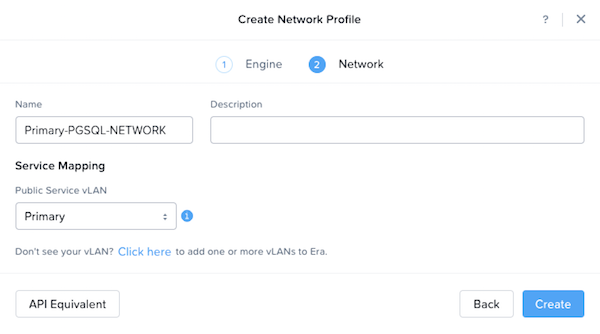
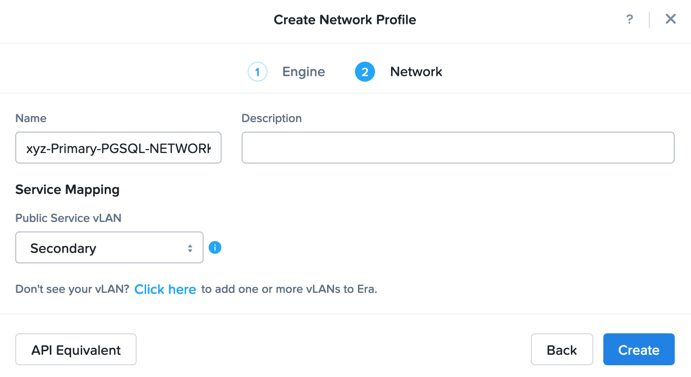
Final Updates - Initial Release

diff --git a/era_provision_postgresdb/era_provision_postgresdb.rst b/era_provision_postgresdb/era_provision_postgresdb.rst
@@ -1,20 +1,11 @@
-.. _era_provision_postgresdb:
+.. _provision_postgresdb:
 
 --------------------------
-Era: Provision Postgres DB
+Provision Postgres DB
 --------------------------
 
 Overview
 ++++++++
-
-.. note::
-
-  Estimated time to complete: **30 MINUTES**
-
-This lab will show you how to provision, connect, and view a Postgres Database.
-
-Provisioning a PostgreSQL Database
-++++++++++++++++++++++++++++++++++
 
 The initial release of Era supports the following Operating Systems and Database Servers:
 
@@ -28,13 +19,43 @@ The initial release of Era supports the following Operating Systems and Database
 
 Era can be used to provision database servers and databases on the registered Nutanix cluster, or you can register an existing source database running on the cluster. In this lab, you will provision a new PostgreSQL database server and database.
 
-Era makes it even simpler to provision a simple PostgreSQL database by providing sample profiles for **Software**, **Compute**, and **Database Parameters**. You will explore each of these profiles to understand how they are configured.
+.. note::
 
-#. Select the **Era > Getting Started** drop down menu and click **Profiles**.
+  Estimated time to complete: **30 MINUTES**
+
+This lab will show you how to provision, connect, and view a Postgres Database.
+
+Exploring Era Resources
++++++++++++++++++++++++
+
+Era is distributed as a virtual appliance that can be installed on either AHV or ESXi. For the purposes of conserving memory resources, a shared Era server has already been deployed on your cluster.
+
+.. note::
+
+   If you're interested, instructions for the brief installation of the Era appliance can be found `here <https://portal.nutanix.com/#/page/docs/details?targetId=Nutanix-Era-User-Guide-v12:era-era-installing-on-ahv-t.html>`_.
+
+#. In **Prism Central > VMs > List**, identify the IP address assigned to the **EraServer-\*** VM using the **IP Addresses** column.
+
+#. Open \https://*ERA-VM-IP:8443*/ in a new browser tab.
+
+#. Login using the following credentials:
+
+   - **Username** - admin
+   - **Password** - nutanix/4u
+
+#. From the **Dashboard** dropdown, select **Administration**.
+
+#. Under **Cluster Details**, note that Era has already been configured for your assigned cluster.
+
+   .. figure:: images/6.png
+
+#. Select **Era Resources** from the left-hand menu.
+
+#. In **Era**, select **Profiles**from the dropdown menu and **Software**  from the lefthand menu.
 
    .. figure:: images/3g.png
 
-#. Select **Software** and note there are included profiles for **PostgreSQL 10.4** and **MariaDB 10.3** shipped with Era.
+#. Note there are included profiles for **PostgreSQL 10.4** and **MariaDB 10.3** shipped with Era.
 
    Additional PostgreSQL, MariaDB, SQL Server, and Oracle profiles can be created by registering database server VMs with Era.
 
@@ -42,7 +63,7 @@ Era makes it even simpler to provision a simple PostgreSQL database by providing
 
 #. Click **+ Create** and fill out the following fields:
 
-   - **Name** - Lab
+   - **Name** - *Initials*\ -Lab
    - **Description** - Lab Compute Profile
    - **vCPUs** - 1
    - **Cores per CPU** - 2
@@ -55,9 +76,10 @@ Era makes it even simpler to provision a simple PostgreSQL database by providing
 #. Click **Network**.
 
 #. Click **+ Create** and fill out the following fields:
-   - Select PostgreSQL for the database engine
-   - **Name** - Primary-PGSQL-NETWORK
-   - **Public Service vLAN** - Primary
+
+   - **Engine** - PostgreSQL
+   - **Name** - *Initials*\ -Primary-PGSQL-NETWORK
+   - **Public Service VLAN** - Secondary
 
    .. figure:: images/3f3.png
 
@@ -65,26 +87,25 @@ Era makes it even simpler to provision a simple PostgreSQL database by providing
 
 #. Select **Database Parameters > DEFAULT_POSTGRES_PARAMS** and note the default parameters for a PostgreSQL database provisioned by Era.
 
-#. Select the **Era > Profiles** drop down menu and click **Getting Started**.
+Provisioning a PostgreSQL Database
+++++++++++++++++++++++++++++++++++
 
-#. On the **Getting Started** page, click the **PostgreSQL** button under **Provision a Database**.
+You've completed all the one time operations required to be able to provision any number of DB Server VMs. Follow the steps below to provision a database of a fresh database server, with best practices automatically applied by Era.
 
-   .. figure:: images/4b2.png
+#. In **Era**, select **Databases** from the dropdown menu and **Sources** from the lefthand menu.
 
-#. Click **Provision a Database**.
+#. Click **+ Provision > Single Node Database**.
 
-   .. figure:: images/4c.png
+#. In the **Provision a Database** wizard, fill out the following fields to configure the Database Server:
 
-#. Select the **PostgreSQL** engine and click **Next**.
-
-#. Fill out the following **Database Server** fields:
-
+   - **Engine** - PostgresSQL
    - **Database Server** - Select **Create New Server**
-   - **Database Server Name** - *Initials*-DBServer
-   - **Compute Profile** - Lab
-   - **Network Profile** - DEFAULT_POSTGRES_NETWORK
+   - **Database Server Name** - *Initials*\ -PostgresSQL
+   - **Description** - (Optional)
    - **Software Profile** - POSTGRES_10.4_OOB
-   - **Description** - (Optional) Description
+   - **Compute Profile** - *Initials*\ -Lab
+   - **Network Profile** - *Initials*\ -Primary-PGSQL-NETWORK
+   - **Database Time Zone** - America/Los_Angeles
    - **SSH Public Key for Node Access** - Select **Text**
 
    .. code-block:: text
@@ -118,7 +139,7 @@ Era makes it even simpler to provision a simple PostgreSQL database by providing
 
 #. Fill out the following **Time Machine** fields:
 
-   - **Name** - *Initials*\_LabDB_TM
+   - **Name** - *Initials*\_LabDB_tm
    - **Description** - (Optional) Description
    - **SLA** - DEFAULT_OOB_GOLD_SLA
    - **Schedule** - Default
@@ -127,7 +148,7 @@ Era makes it even simpler to provision a simple PostgreSQL database by providing
 
 #. Click **Provision**.
 
-#. Click **Operations** in the upper right-hand corner to view the provisioning progress. Provisioning should take approximately 5 minutes.
+#. Select **Operations** from the dropdown menu to monitor the provisioning. This process should take approximately 5 minutes.
 
    .. note::
 
@@ -146,7 +167,7 @@ Connecting to the Database
 
 Now that Era has successfully provisioned a database instance, you will connect to the instance and verify the database was created.
 
-#. Select **Era > Databases** from the drop down menu.
+#. In **Era**, select **Databases** from the drop down menu.
 
 #. Under **Sources**, click the name of your database.
 
@@ -156,7 +177,7 @@ Now that Era has successfully provisioned a database instance, you will connect 
 
    .. figure:: images/5b.png
 
-#. Using *Initials*\ **-Windows-ToolsVM**, open **pgAdmin**.
+#. Using *Initials*\ **-WinToolsVM**, open **pgAdmin**.
 
    .. note::
 

diff --git a/labsetup/labsetup.rst b/labsetup/labsetup.rst
@@ -1,0 +1,95 @@
+.. _lab_setup:
+
+----------------------
+Postgres Lab Setup
+----------------------
+
+Welcome to the Databases bootcamp. This bootcamp is meant to provide you with first hand experience in why Nutanix is an ideal platform for Database workloads.
+
+Historically, it has been a challenge to virtualize SQL Server because of the high cost of traditional virtualization stacks and the impact that a SAN-based architecture can have on performance. Businesses and their IT departments have constantly fought to balance cost, operational simplicity, and consistent predictable performance.
+
+The Nutanix Enterprise Cloud removes many of these challenges and makes virtualizing a business-critical application such as SQL Server much easier. The Acropolis Distributed Storage Fabric (DSF) is a software-defined solution that provides all the features one typically expects in an enterprise SAN, without a SAN’s physical limitations and bottlenecks. SQL Server particularly benefits from the following DSF features:
+
+- Localized I/O and the use of flash for index and key database files to lower operation latency.
+- A highly distributed approach that can handle both random and sequential workloads.
+- The ability to add new nodes and scale the infrastructure without system downtime or performance impact.
+- Nutanix data protection and disaster recovery workflows that simplify backup operations and business continuity processes.
+
+In addition to solving common infrastructure problems for hosting business critical applications, Nutanix also seeks to address many of the key pain points associated with managing databases.
+
+.. figure:: images/4.png
+
+Based on a 2018 IDC study of 500 North American companies with more than 1,000 employees, they estimate:
+
+- 77% of the organizations have more than 200 database instances in their production
+- 82% have more than 10 copies of each DB
+- 45%-60% the total storage capacity is dedicated to accommodating copy data
+- 32% of database clones require daily refreshes for analytics of dev/test
+- Copy data will cost IT organizations $55.63 billion in 2020
+
+Maintaining the status quo leads to inefficient usage of both storage and worse, of administrator time. Meet Nutanix Era.
+
+.. figure:: images/5.png
+
+Nutanix Era provides DBaaS for your Enterprise Cloud. Leveraging the Nutanix Enterprise Cloud OS, we are able to take advantage of the power of full stack - data, compute, and software. Nutanix Era hides the complexity of database operations and provides common APIs, CLI, and consumer-grade GUI experience for multiple database engines. It makes database operations such as cloning efficient, thereby driving down the TCO of database management for our customers.
+
+In this track you'll walk in an administrator's shoes to manually deploy a Microsoft SQL database VM on AHV, and observe first hand how Day 1 and Day 2+ management of that workload can be transformed with Nutanix Era. In addition to Era, you'll see how additional products like Flow and Prism Pro complement database workloads on Nutanix.
+
+Configuring a Project
++++++++++++++++++++++
+
+In this lab you will leverage multiple pre-built Calm Blueprints to provision your applications...
+
+#. In **Prism Central**, select :fa:`bars` **> Services > Calm**.\
+
+#. Select **Projects** from the lefthand menu and click **+ Create Project**.
+
+   .. figure:: images/2.png
+
+#. Fill out the following fields:
+
+   - **Project Name** - *Initials*\ -Project
+   - Under **Users, Groups, and Roles**, select **+ User**
+      - **Name** - Administrators
+      - **Role** - Project Admin
+      - **Action** - Save
+   - Under **Infrastructure**, select **Select Provider > Nutanix**
+   - Click **Select Clusters & Subnets**
+   - Select *Your Assigned Cluster*
+   - Under **Subnets**, select **Primary**, **Secondary**, and click **Confirm**
+   - Mark **Primary** as the default network by clicking the :fa:`star`
+
+   .. figure:: images/3.png
+
+#. Click **Save & Configure Environment**.
+
+Deploying a Windows Tools VM
+++++++++++++++++++++++++++++
+
+Some exercises in this track will depend on leveraging the Windows Tools VM. Follow the below steps to provision your personal VM from a disk image.
+
+#. In **Prism Central**, select :fa:`bars` **> Virtual Infrastructure > VMs**.
+
+#. Click **+ Create VM**.
+
+#. Fill out the following fields to complete the user VM request:
+
+   - **Name** - *Initials*\ -WinToolsVM
+   - **Description** - Manually deployed Tools VM
+   - **vCPU(s)** - 2
+   - **Number of Cores per vCPU** - 1
+   - **Memory** - 4 GiB
+
+   - Select **+ Add New Disk**
+      - **Type** - DISK
+      - **Operation** - Clone from Image Service
+      - **Image** - WinToolsVM.qcow2
+      - Select **Add**
+
+   - Select **Add New NIC**
+      - **VLAN Name** - Secondary
+      - Select **Add**
+
+#. Click **Save** to create the VM.
+
+#. Power on your *Initials*\ **-WinToolsVM**.

diff --git a/era_clone_postgresdb/era_clone_postgresdb.rst b/era_clone_postgresdb/era_clone_postgresdb.rst
@@ -1,7 +1,7 @@
-.. _era_clone_postgresdb:
+.. _clone_postgresdb:
 
 ----------------------
-Era: Clone Postgres DB
+Clone Postgres DB
 ----------------------
 
 Overview
@@ -18,7 +18,7 @@ Cloning Your PostgreSQL Source
 
 Now that you have created a source database, you can easily clone it using Era Time Machine. Database clones are helpful for development and testing purposes, allowing non-production environments to utilize product data without impacting production operations. Era clones utilize Nutanix-native copy-on-write cloning technology, allowing for zero-byte database clones. This space efficiency can significantly lower storage costs for environments supporting large numbers of database clones.
 
-#. In **Era > Time Machines**, select the Time Machine instance for your source database.
+#. In **Era**, select **Time Machines**, select the Time Machine instance for your source database (*Initials*\_LabDB_tm).
 
    .. figure:: images/16a2.png
 
@@ -28,9 +28,7 @@ Now that you have created a source database, you can easily clone it using Era T
 
 #. Click **Create**.
 
-   You can monitor the **Create Snapshot** job in **Era > Operations**.
-
-   .. figure:: images/18a2.png
+#. Select **Operations** from the dropdown menu to monitor the provisioning. This process should take approximately 5 minutes.
 
 #. After the snapshot job completes, select the Time Machine instance for your source database (*Initials*\_LabDB_tm) in **Era > Time Machines** and click **Actions** > **Clone Database**.
 
@@ -47,9 +45,9 @@ Now that you have created a source database, you can easily clone it using Era T
 #. On the **Database Server** tab, fill out the following fields:
 
    - **Database Server** - Create New Server
-   - **Database Server Name** - *Initials*-DBServer-Clone
-   - **Compute Profile** - Lab
-   - **Network Profile** - DEFAULT_OOB_NETWORK
+   - **Database Server Name** - *Initials*-PostgresSQL_Clone
+   - **Compute Profile** - *Initials*\ -Lab
+   - **Network Profile** - *Initials*\ -Primary-PGSQL-NETWORK
    - **SSH Public Key** -
 
    .. code-block:: text
@@ -71,9 +69,9 @@ Now that you have created a source database, you can easily clone it using Era T
 
 #. Click **Clone**.
 
-   The cloning process will take approximately the same amount of time as provisioning the original database and can be monitored in **Era > Operations**.
+#. Select **Operations** from the dropdown menu to monitor the provisioning. This process should take approximately 5-10 minutes.
 
-   While waiting for the clone to complete, explore **Era > SLAs** to understand the differences between standard SLAs offered by Era, or create your own custom SLA.
+#. While waiting for the clone to complete, explore **Era > SLAs** to understand the differences between standard SLAs offered by Era, or create your own custom SLA.
 
    .. figure:: images/21b.png
 
@@ -121,11 +119,13 @@ The ability to easily refresh a cloned database using new data from the source d
 
    In this case, you just created the **products** table in your source database, so a manual execution of **Log Catch Up** would be required to copy transactional logs to Era from your source database.
 
-#. In **Era > Time Machines**, select the Time Machine instance for your source database and click **Actions** > **Log Catch Up > Yes**.
+#. In **Era**, select **Time Machines**, select the Time Machine instance for your source database and click **Actions** > **Log Catch Up > Yes**.
 
    .. figure:: images/27c.png
 
-#. Once the **Log Catchup** job completes, in **Era > Databases > Clones**, select the clone of your source database and click **Refresh**.
+#. Select **Operations** from the dropdown menu to monitor the provisioning. This process should take approximately 5-10 minutes.
+
+#. Once the **Log Catchup** job completes, select **Databases > Clones**, select the clone of your source database and click **Refresh**.
 
    .. figure:: images/27b2.png
 
@@ -133,9 +133,7 @@ The ability to easily refresh a cloned database using new data from the source d
 
    .. figure:: images/27d.png
 
-#. Observe the steps taken by Era to refresh the cloned database in **Operations**.
-
-   .. figure:: images/27e.png
+#. Select **Operations** from the dropdown menu to monitor the provisioning. This process should take approximately 5-10 minutes.
 
 #. Once the **Refresh Clone** job is complete, refresh the **Tables** view of your clone database in **pgAdmin** and confirm the **products** table is now present.
 

diff --git a/era_rest_api/era_rest_api.rst b/era_rest_api/era_rest_api.rst
@@ -1,7 +1,7 @@
-.. _era_rest_api:
+.. _rest_api:
 
 ----------------------
-Era: REST API Explorer
+Era REST API Explorer
 ----------------------
 
 Overview
